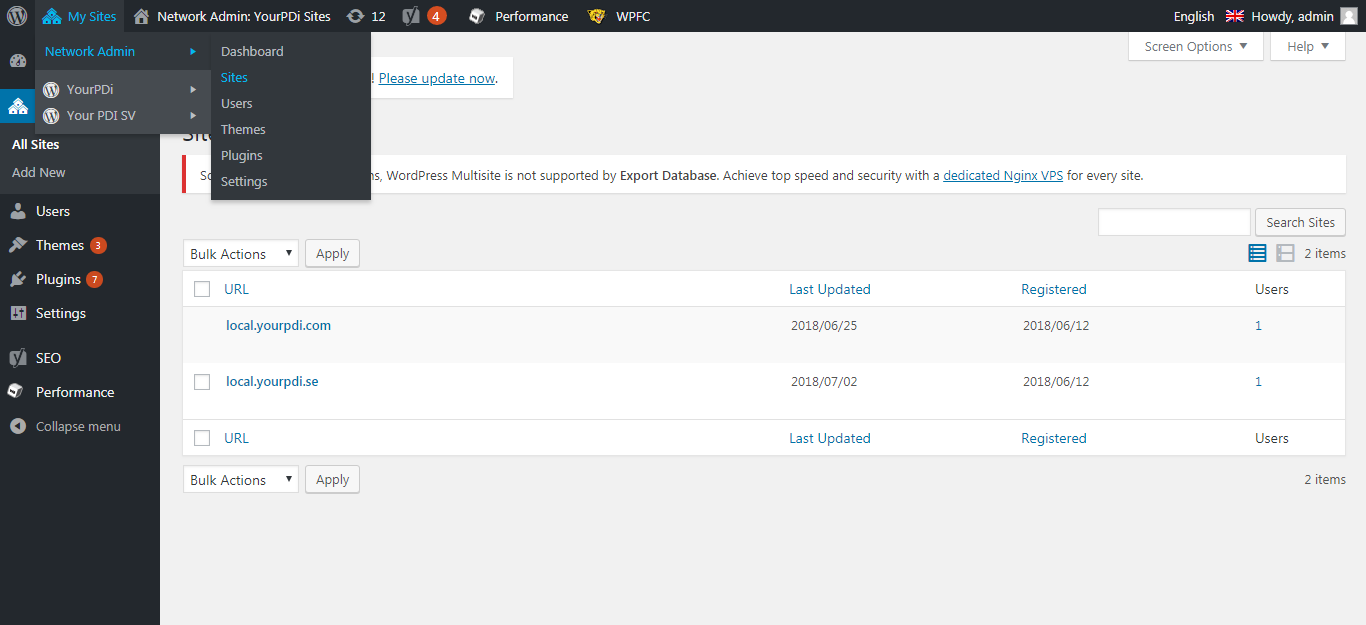
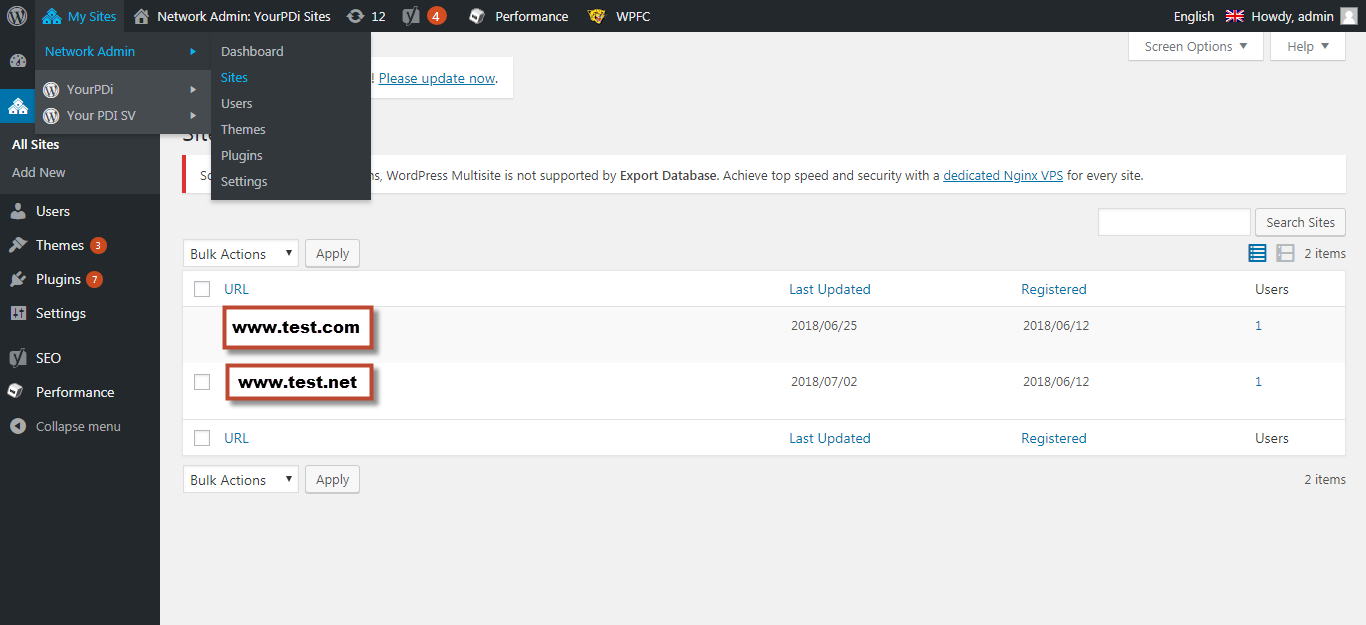
write up complete

Changed region(s): [[0.1537, 0.4864, 0.2767, 0.6688]]

diff --git a/README.md b/README.md
@@ -20,10 +20,15 @@ After "Clicking" install button, You will see second screen as below to add belo
 
 `define('MULTISITE', true);
 define('SUBDOMAIN_INSTALL', false);
-define('DOMAIN_CURRENT_SITE', 'localhost');
+define('DOMAIN_CURRENT_SITE', 'localhost.test.com');
 define('PATH_CURRENT_SITE', '/cdpr/');
 define('SITE_ID_CURRENT_SITE', 1);
-define('BLOG_ID_CURRENT_SITE', 1);`
+define('BLOG_ID_CURRENT_SITE', 1);
+
+define('COOKIE_DOMAIN', '');
+define('ADMIN_COOKIE_PATH', '/');
+define('COOKIEPATH', '/');
+define('SITECOOKIEPATH', '/');`
 
 Add the following lines to your .htaccess and save.
 
@@ -43,28 +48,64 @@ RewriteRule . index.php [L]`
 ![alt text](https://github.com/virtualforce/how-to-setup-multinetwork-wordpress-website/blob/master/images/step2.png ".htaccess and wp-config extra lines.")
 
 #### 3. Login to your wordpress admin panel:
-Once you complete these steps, your network is enabled and configured. You will have to log in again. Log In.After login,you will be able to see screen like below.
+Once you complete these steps, your network is enabled and configured. You will have to log in again. Log In.After login,You need to go to Plugins and activate the plugins that you require as Network Activate.You can activate/de-activate plugins later too if you want.
 
 
 #### 4. Enabling Sub-Domains/Domains in Multisite Network:
-You’ll need to create a subdomain with `*` as the subdomain name. For example, if your WordPress is installed at www.example.com then you need to create a subdomain subdomain.example.com. However, this subdomain should point to the same directory where your WordPress is installed. We will show you how to create a wildcard subdomain in cPanel.
+You’ll need to create a subdomain with `*` as the subdomain name. For example, if your WordPress is installed at www.test.com then you need to create a subdomain subdomain.example.com. However, this subdomain should point to the same directory where your WordPress is installed. I suggest you to put anything(example.test.com) here so you can atleast go to next step and create a sub-website.
 
 ![alt text](https://github.com/virtualforce/how-to-setup-multinetwork-wordpress-website/blob/master/images/step3.png "Addin domain or subdomains")
 
-Log in to your cPanel dashboard and then under the Domains section click on Subdomains. On the next screen simply enter * in the subdomain field. Make sure that the document root field is pointing to the directory where you have WordPress installed. This is the directory where wp-config.php file resides. Hit the create button to add the subdomain.
+Once you have setup the sub-site,You can change the base url of your sub-site like www.test.net You can make settings for this particular new sub-site.You can add users and themes.
 
+![alt text](https://github.com/virtualforce/how-to-setup-multinetwork-wordpress-website/blob/master/images/step4.png "settings of new sub-site")
 
+#### 5. You are done.
+That's all.
 
+#### Virtuals hosts and other basic configurations.
+You have to point your secondary domain(www.test.net) to the same IP addresss to which your main domain(www.test.com) is pointed.
 
-media upload limit
-Server Side:
+Your virtual hosts file should look like:
+
+`##virtual host for your test.com
+<VirtualHost *:80>
+    ServerAdmin webmaster@localhost
+    DocumentRoot /var/www/html/test.com
+    ServerName www.test.com
+	<Directory "/var/www/html/test.com">
+        Options Indexes FollowSymLinks Includes ExecCGI
+        AllowOverride All
+        Order allow,deny
+        Allow from all
+    </Directory>
+</VirtualHost>
+##virtual host for your test.net 
+<VirtualHost *:80>
+    ServerAdmin webmaster@localhost
+    DocumentRoot /var/www/html/test.com
+    ServerName www.test.net
+	<Directory "/var/www/html/test.com">
+        Options Indexes FollowSymLinks Includes ExecCGI
+        AllowOverride All
+        Order allow,deny
+        Allow from all
+    </Directory>
+</VirtualHost>`
+
+There are some basic configurations for a Network website like maximum upload size to media,type of files allowed etc.Please see the below screenshot.
+
+![alt text](https://github.com/virtualforce/how-to-setup-multinetwork-wordpress-website/blob/master/images/step4.png "settings of new sub-site")
+
+Make sure rewrite module is enabled on your server.Run following command to enable it.
 sudo a2enmod rewrite
-<Directory /var/www/>
-                Options Indexes FollowSymLinks MultiViews
-                AllowOverride All
-                Order allow,deny
-                allow from all
-</Directory>
+
+Don't forget to restart your server after you have made changes to PHP.INI or virtual hosts file.
 
 sudo service apache2 restart
 
+
+### References:
+
+ * [Digital Ocean](https://www.digitalocean.com/community/tutorials/how-to-set-up-multiple-wordpress-sites-using-multisite)
+ * [WPBEGINNER](https://www.wpbeginner.com/glossary/multisite/)
